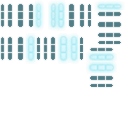
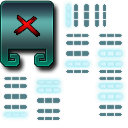
项目初版

diff --git a/assets/scripts/modules/home/BottomTabLayer.ts b/assets/scripts/modules/home/BottomTabLayer.ts
@@ -14,24 +14,24 @@ export class BottomTabLayer extends UILayer {
         console.log('grp_bottom');
     }
     
-    private _tap_btn_equip(){
-        console.log("equip");
-    }
+    // private _tap_btn_equip(){
+    //     console.log("equip");
+    // }
 
-    private _tap_btn_shop(){
-        console.log("shop");
-    }
+    // private _tap_btn_shop(){
+    //     console.log("shop");
+    // }
 
-    private _tap_btn_home(){
-        console.log("home");
-    }
+    // private _tap_btn_home(){
+    //     console.log("home");
+    // }
 
-    private _tap_btn_tanlent(){
-        console.log("tanlent");
-    }
+    // private _tap_btn_tanlent(){
+    //     console.log("tanlent");
+    // }
 
-    private _tap_btn_setting(){
-        console.log("setting");
-    }
+    // private _tap_btn_setting(){
+    //     console.log("setting");
+    // }
 }
 

diff --git a/assets/scripts/modules/home/Home.ts b/assets/scripts/modules/home/Home.ts
@@ -4,17 +4,22 @@ import * as fgui from "fairygui-cc";
 import { UILayer } from '../../framework/ui/UILayer';
 @ccclass('Home')
 export class Home extends UILayer {
-     /** 包名称 */
+    /** 包名称 */
     public static pkgName: string = 'home';
+    private btn_close: fgui.GButton;
+    private img_equip: fgui.GImage;
     protected onEnter() {
         let self = this;
-        self.onEmitter('clickBottom', () => {
-            console.log('点击的底部按钮！！！！！！！！！！！！');
-        })
+        self.btn_close;
+        self.img_equip;
+        self.img_equip.onClick(function () {
+            console.log('点击测试')
+        }, self);
     }
 
-    private _tap_bottom() {
-        this.emit('clickBottom');
+    private _tap_btn_close(e) {
+        console.log('点击关闭按钮');
     }
+
 }
 
